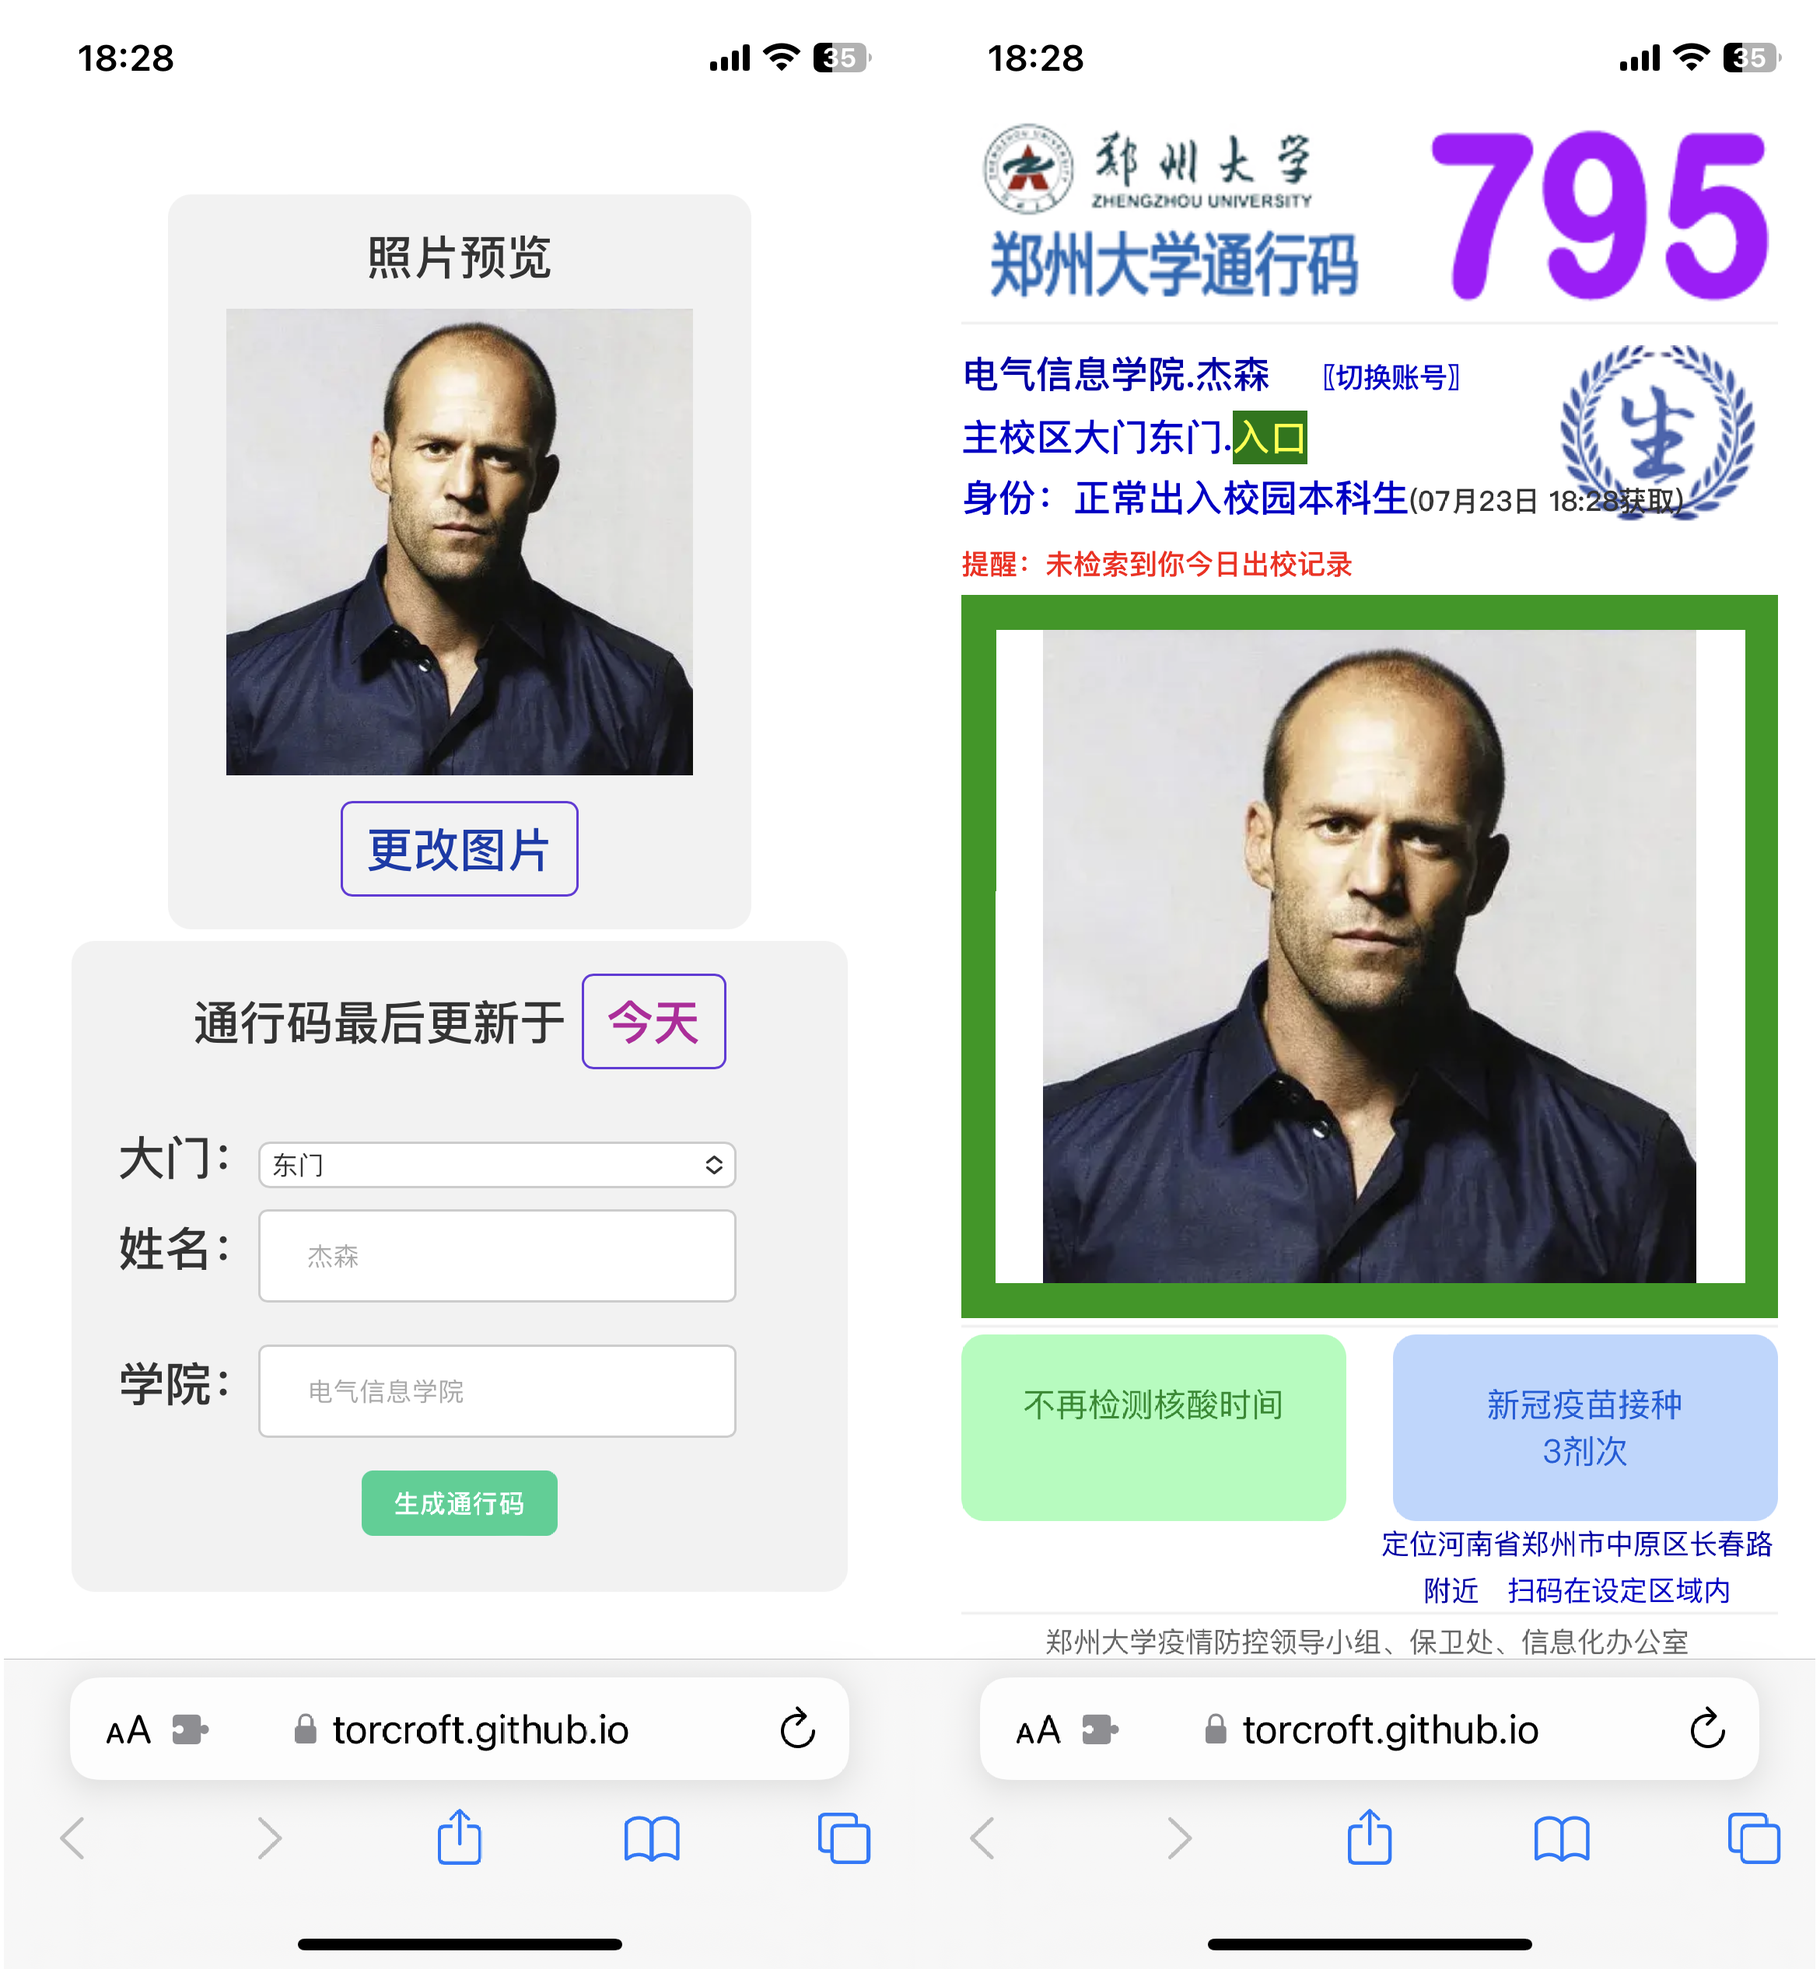
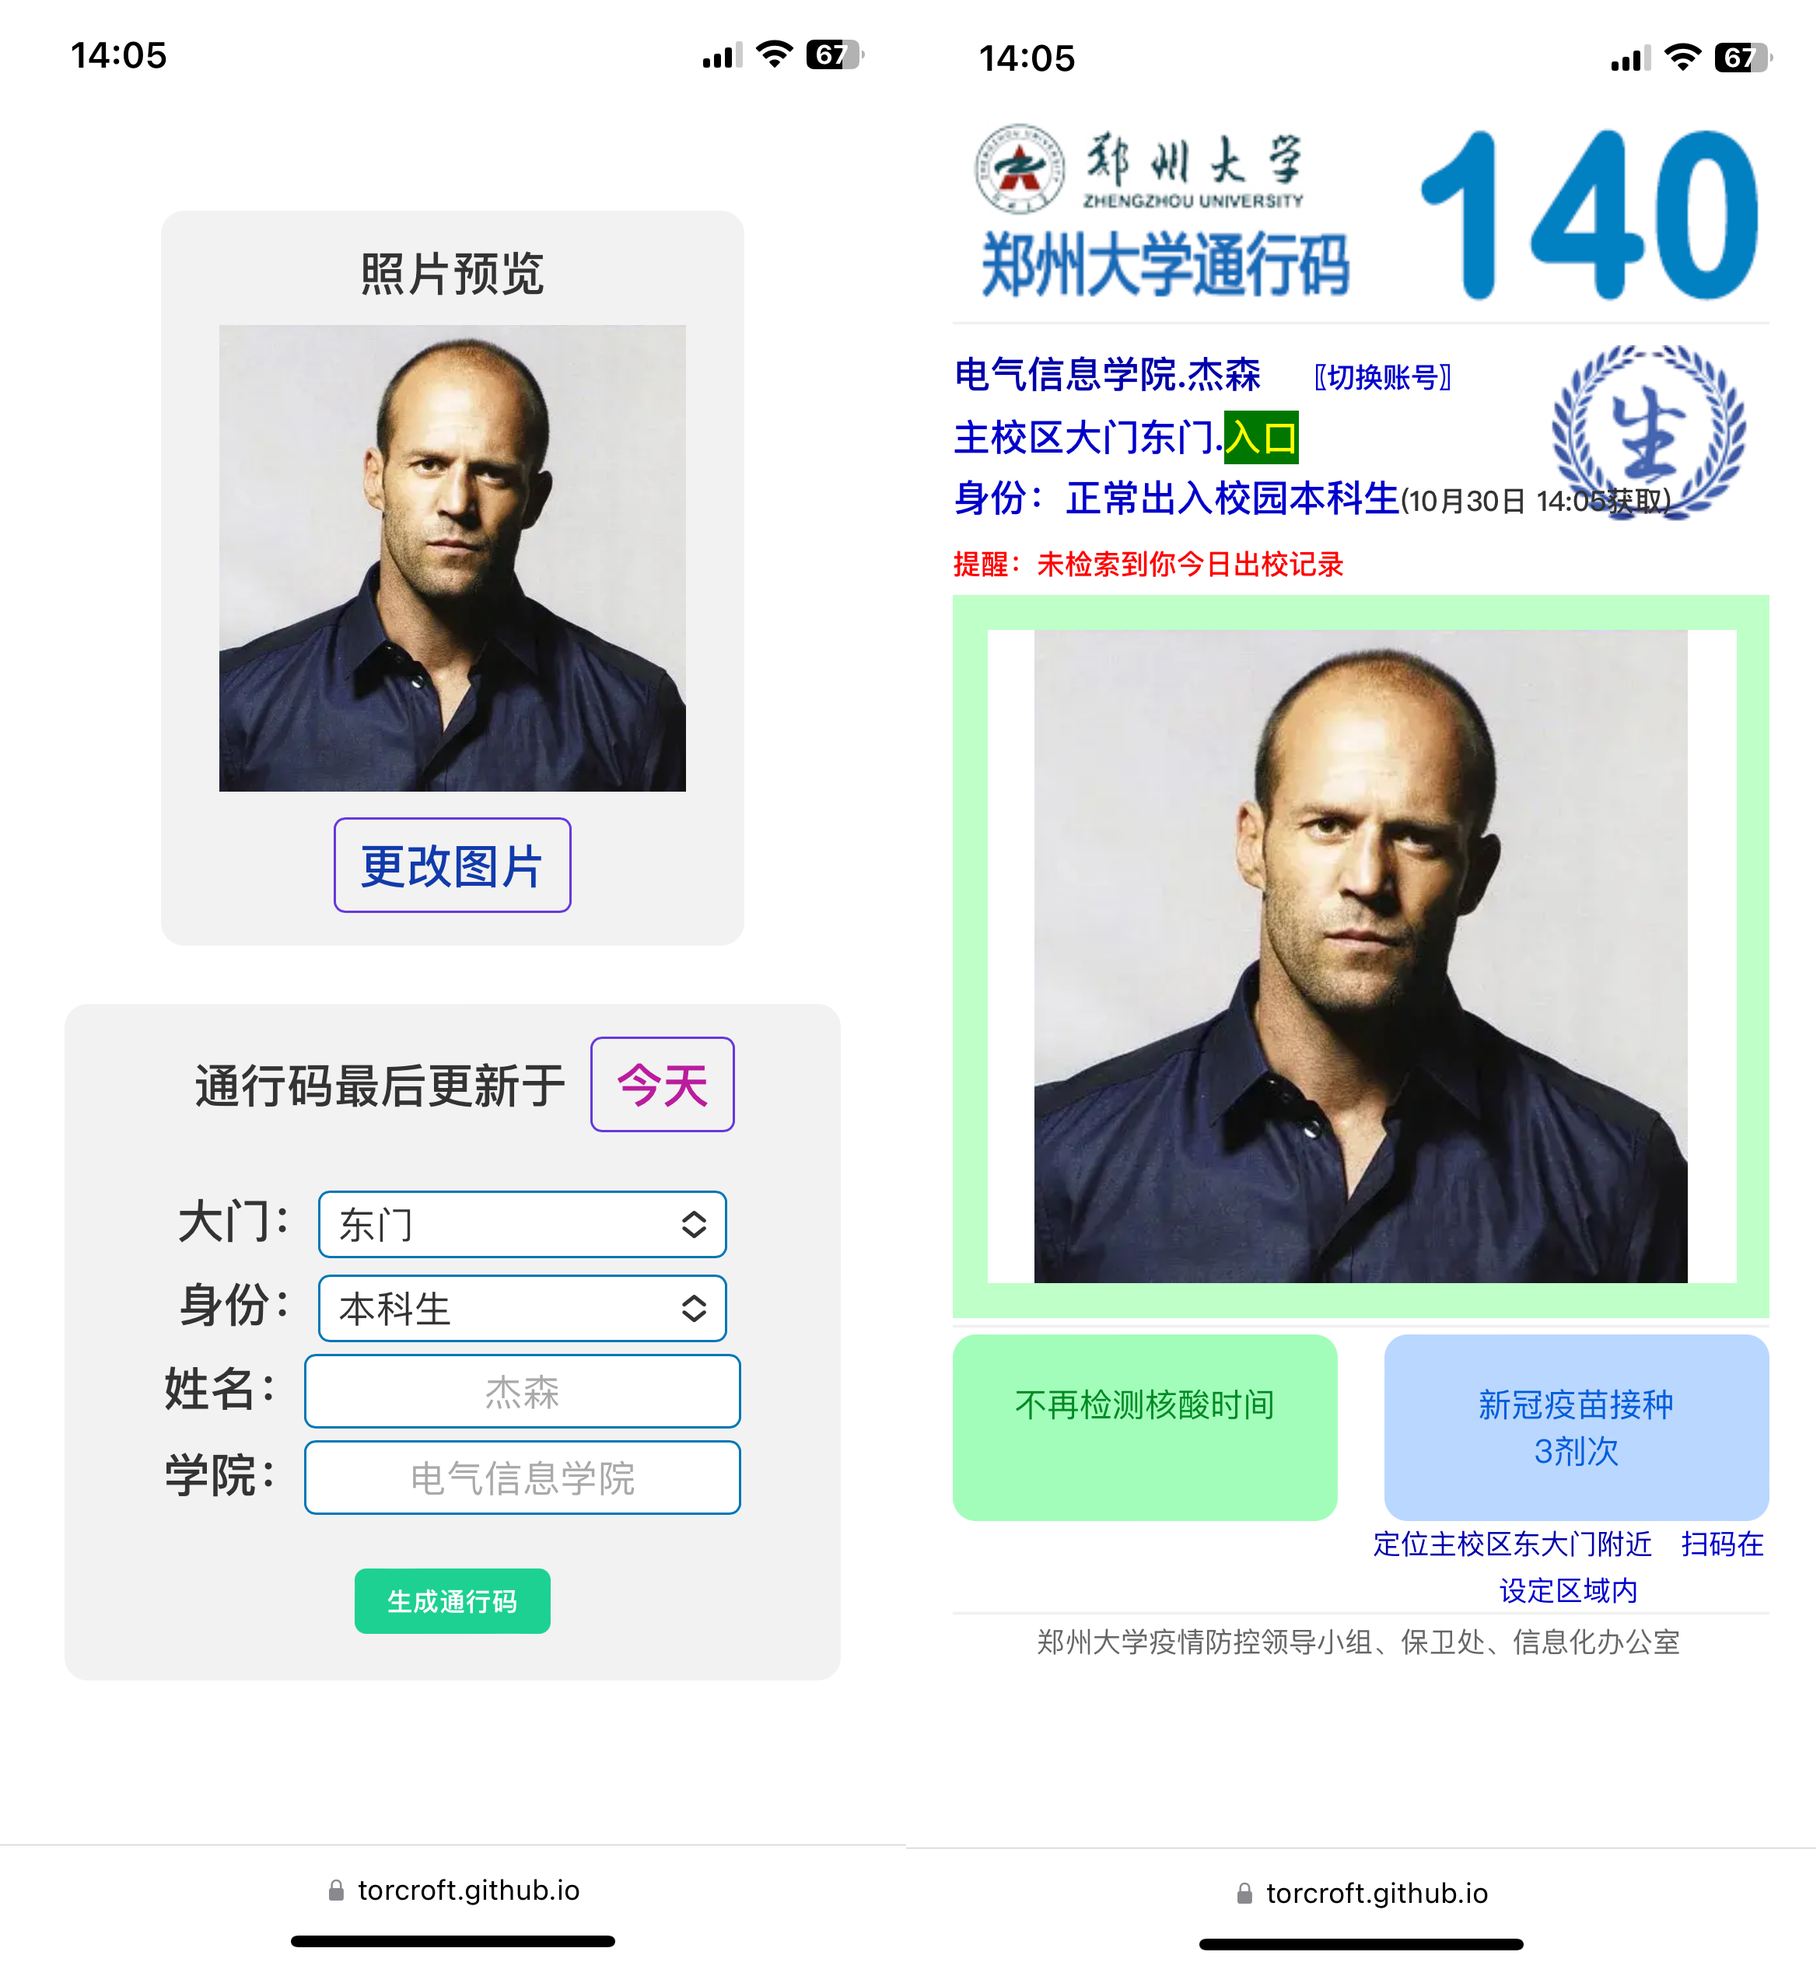
新增本科生、研究生身份选择。

diff --git a/page/index.html b/page/index.html
@@ -14,6 +14,7 @@
         let timerID;
         let flip = true;
         let isCodeExpired = false;
+        let localPasscodeImgPath;
         function flipEvent() {
             flip = !flip;
             if (flip) border_1.style.backgroundColor = border_2.style.backgroundColor = border_3.style.backgroundColor = border_4.style.backgroundColor = "#bfffc8";
@@ -32,7 +33,8 @@
             const today = utcPlus8Time.startOf('day');
             const yesterday = today.clone().subtract(1, 'day');
             const daysDifference = utcPlus8Time.diff(givenDate, 'days');
-            
+            localPasscodeImgPath = "./images/passcode.png?date=" + givenDate.format("YYYYMMDD");
+
             if (givenDate.isSameOrAfter(today)) {
                 return "今天";
             } else {
@@ -86,6 +88,15 @@
                 }
             })
         }
+        function changeIdentity(selectedValue) {
+            const identityElement = document.getElementById("identity");
+            if (selectedValue === '0') {
+                identityElement.innerText = "本科生";
+            }
+            else {
+                identityElement.innerText = "研究生";
+            }
+        }
         function changeLocation(selectedValue) {
             const locationElement = document.getElementById("location");
             const mainGate = document.getElementById("gate");
@@ -127,16 +138,12 @@
             <div style="text-align: center;"><label id="image_select"><input type="file" id="photo" onchange="handleFiles()" accept="image/*" style="display: none;">更改图片</label></div>
         </div>
         <form id="info_form">
-            <div style="text-align: center;"><label>通行码最后更新于&nbsp;</label><label id="last_update_time"></label></div>
-            <br>
-            <label for="name">大门：<select name='gate' size='1' onchange="changeLocation(this.value)">
-                    <option value='east' selected='selected'>东门</option>
-                    <option value='north'>北门</option>
-                    <option value='south'>南门</option>
-                </select></label><br>
-            <label for="name">姓名：<input type="text" id="name" name="name" placeholder="杰森"></label><br>
-            <label for="college">学院：<input type="text" id="college" name="college" placeholder="电气信息学院"></label><br>
-            <div style="text-align: center;"><button type="submit">生成通行码</button></div>
+            <div style="text-align: center;"><label>通行码最后更新于</label><label id="last_update_time"></label></div><br>
+            <div class="info-item"><label for="name">大门：<select name='gate' onchange="changeLocation(this.value)"><option value='east' selected='selected'>东门</option><option value='north'>北门</option><option value='south'>南门</option></select></label><br></div>
+            <div class="info-item"><label for="identity">身份：<select name='identity' onchange="changeIdentity(this.value)"><option value='0' selected='selected'>本科生</option><option value='1'>研究生</option></select></label><br></div>
+            <div class="info-item"><label for="name">姓名：<input type="text" id="name" name="name" placeholder="杰森"></label><br></div>
+            <div class="info-item"><label for="college">学院：<input type="text" id="college" name="college" placeholder="电气信息学院"></label><br></div>
+            <div class="info-submit" style="text-align: center;"><button type="submit">生成通行码</button></div>
         </form>
         <div style="width:0;height:0;display: none;">
             <img id="passcode_img_preload" alt="preImg"><img src="./images/sheng.png" alt="preImg"><img src="./images/split.png" alt="preImg">
@@ -148,17 +155,13 @@
         <div style="width:100%; min-height:90px;">
             <div style="width:100%;height:6px;text-align:left;"></div>
             <div style="width:100%;min-height:26px;line-height:26px;font-size:16px;color:#00c;font-weight:500;font-family:黑体;BACKGROUND-IMAGE:url(./images/sheng.png)">
-                <span id="college_and_name" style="color:#00a">college.name</span>　<a href="javascript:return_to_interface();"><span style="font-size:12px;;color:#00c;">〖切换账号〗</span></a>
-                <br>主校区大门<span id="gate">东门</span>.<span style="background-color:#070;color:#ff0">入口</span><br>身份：正常出入校园本科生<span style="font-size:12px;color:#333;" id="current_time">(00月00日 00:00获取)</span>
-                <br><span style="color:#f00;font-size:12px">提醒：未检索到你今日出校记录</span>
+                <span id="college_and_name" style="color:#00a">college.name</span>　<a href="javascript:return_to_interface();"><span style="font-size:12px;;color:#00c;">〖切换账号〗</span></a><br>主校区大门<span id="gate">东门</span>.<span style="background-color:#070;color:#ff0">入口</span><br>身份：正常出入校园<span id="identity">本科生</span><span style="font-size:12px;color:#333;" id="current_time">(00月00日 00:00获取)</span><br><span style="color:#f00;font-size:12px">提醒：未检索到你今日出校记录</span>
             </div>
         </div>
         <div style="width: 100%; height: 15px; background-color: rgb(0, 153, 0);" id="bian92a"></div>
         <div style="width:100%;height:280px;">
             <div style="width: 15px; height: 100%; background-color: rgb(0, 153, 0); float: left;" id="bian92b1"></div>
-            <div style="width:320px;height:100%;float:left;text-align:center;">
-                <img src="./images/preview.jpg" id="user_portrait" style="height:280px;border:0px;" alt="user's portrait">
-            </div>
+            <div style="width:320px;height:100%;float:left;text-align:center;"><img src="./images/preview.jpg" id="user_portrait" style="height:280px;border:0px;" alt="user's portrait"></div>
             <div style="width: 14px; height: 100%; background-color: rgb(0, 153, 0); float: right;" id="bian92b2"></div>
         </div>
         <div style="width: 100%; height: 15px; background-color: rgb(0, 153, 0);" id="bian92c"></div>
@@ -171,15 +174,15 @@
                 <div style="width:2px;height:100%;float:right"></div>
             </div>
             <div class="bar916">
-                <div style="width:50%;height:100%;float:left;font-size:12px;color:#666;line-height:20px;" id="msg11b">
-                </div>
+                <div style="width:50%;height:100%;float:left;font-size:12px;color:#666;line-height:20px;" id="msg11b"></div>
                 <div style="width:48%;height:100%;float:right;font-size:12px;color:#666;line-height:20px;" id="msg11c">
-                    <span id="location" style="color:#00a">定位河南省郑州市中原区长春路附近</span>　<span style="color:#00c">扫码在设定区域内</span>
+                    <span id="location" style="color:#00a">定位主校区东大门附近</span>　<span style="color:#00c">扫码在设定区域内</span>
                 </div>
             </div>
         </div>
         <div style="width:100%;height:7px;BACKGROUND-IMAGE: url(./images/split.png)"></div>
-        <div style="width:100%;min-height:18px;line-height:18px;font-size:12px;color:#666;text-align:center">郑州大学疫情防控领导小组、保卫处、信息化办公室</div>
+        <div style="width:100%;min-height:18px;line-height:18px;font-size:12px;color:#666;text-align:center">
+            郑州大学疫情防控领导小组、保卫处、信息化办公室</div>
     </div>
     <script>
         const interface = document.getElementById('interface');
@@ -204,14 +207,13 @@
                 const lastUpdateTimeLabel = document.getElementById('last_update_time');
                 const passcode_url = config.passcode_url;
                 lastUpdateTimeLabel.textContent = handleDatetime(config.last_update_time);
-                checkImgExists(passcode_url).then(()=>{
-                    //success callback
-                    document.getElementById('passcodeImg').style.backgroundImage = `url(${passcode_img_url})`;
-                }).catch(()=>{
+                checkImgExists(passcode_url).then(() => {
+                    document.getElementById('passcode_img_preload').src = passcode_url;
+                    document.getElementById('passcodeImg').style.backgroundImage = `url(${passcode_url})`;
+                }).catch(() => {
                     //fail callback
-                    const passcode_path = "./images/passcode.png";
-                    document.getElementById('passcode_img_preload').src = passcode_path;
-                    document.getElementById('passcodeImg').style.backgroundImage = `url(${passcode_path})`;
+                    document.getElementById('passcode_img_preload').src = localPasscodeImgPath;
+                    document.getElementById('passcodeImg').style.backgroundImage = `url(${localPasscodeImgPath})`;
                 })
             });
     </script>

diff --git a/page/css/interface_style.css b/page/css/interface_style.css
@@ -1,1 +1,1 @@
-div#interface{top:20%;display:flex;justify-content:center;align-items:center;min-HEIGHT:540px;font-size:20px;color:#333}div#interface div#preview{width:auto;height:auto;text-align:center;position:absolute;top:10%;border-radius:10px;background-color:#f2f2f2;margin-top:-30px;margin-bottom:20px;padding-left:25px;padding-right:25px;padding-top:20px;padding-bottom:20px}div#interface form{position:absolute;width:75%;max-width:350px;top:calc(10% + 290px);border-radius:10px;background-color:#f2f2f2;padding:20px}div#interface label{font-family:黑体;font-weight:500}div#interface input[type=text]{width:70%;padding:12px 20px;margin:8px 0;margin-bottom:10px;display:inline-block;border:1px solid #ccc;border-radius:4px;box-sizing:border-box}div#interface input[type="text"]:focus{outline:none;box-shadow:0 0 5px rgba(81,203,238,1)}div#interface button[type=submit]{background-color:#1dd192;border-radius:5px;border:none;color:white;padding:7px 14px;text-decoration:none;margin:4px 2px;cursor:pointer}div#interface button[type=submit]:hover{background-color:#1c9d70;}div#interface select{width:70%;padding:5px;text-align:center;border-radius:5px;border:1px solid #ccc;color:#333;background-color:#fff;box-shadow:none}div#interface select:focus{outline:none;border-color:#1e90ff;box-shadow:0 0 0 2px rgba(30,144,255,0.2)}div#interface option{color:#333;background-color:#fff}div#interface #last_update_time{font-weight:bold;color:#bb1c9e;border:1px solid #6739db;padding:5px 10px;border-radius:5px}div#interface label#image_select{margin-top:10px;text-align:center;color:#113bac;border:1px solid #6739db;padding:5px 10px;border-radius:5px;cursor:pointer}div#interface label#image_select:hover{color:#113bac;background-color:#7f74f6}
+div#interface{top:20%;display:flex;justify-content:center;align-items:center;min-HEIGHT:540px;font-size:20px;color:#333}div#interface div#preview{width:auto;height:auto;text-align:center;position:absolute;top:10%;border-radius:10px;background-color:#f2f2f2;margin-top:-30px;margin-bottom:20px;padding-left:25px;padding-right:25px;padding-top:20px;padding-bottom:20px}div#interface form{margin-top:20px;position:absolute;width:75%;max-width:350px;top:calc(10% + 290px);border-radius:10px;background-color:#f2f2f2;padding:20px}div.info-item{margin-bottom:5px;text-align:center;}div#interface label{font-family:黑体;font-weight:500;padding:12px 10px;}div#interface input[type=text]{max-width:60%;text-align:center;padding:5px;border:1px solid #0077b6;border-radius:5px;background-color:#fff;color:#333;font-size:16px;}div#interface input[type="text"]:focus{outline:none;box-shadow:0 0 5px rgba(81,203,238,1)}div.info-submit{padding-top:14px;}div#interface button[type=submit]{background-color:#1dd192;border-radius:5px;border:none;color:white;padding:7px 14px;text-decoration:none;cursor:pointer}div#interface button[type=submit]:hover{background-color:#1c9d70;}div#interface select{text-align:center;width:60%;padding:5px;border:1px solid #0077b6;border-radius:5px;background-color:#fff;color:#333;font-size:16px;}div#interface select:focus{outline:none;border-color:#1e90ff;box-shadow:0 0 0 2px rgba(30,144,255,0.2)}div#interface option{color:#333;background-color:#fff}div#interface #last_update_time{font-weight:bold;color:#bb1c9e;border:1px solid #6739db;padding:5px 10px;border-radius:5px}div#interface label#image_select{margin-top:10px;text-align:center;color:#113bac;border:1px solid #6739db;padding:5px 10px;border-radius:5px;cursor:pointer}div#interface label#image_select:hover{color:#113bac;background-color:#7f74f6}

diff --git a/src/utils.py b/src/utils.py
@@ -1,12 +1,12 @@
 import requests
 import os
 import json
-from datetime import datetime, timezone
+from datetime import datetime, UTC
 from .logger import logger
 
 
 def utc_time_string():
-    utc_time = datetime.utcnow().replace(tzinfo=timezone.utc)
+    utc_time = datetime.now(UTC)
     return datetime.strftime(utc_time, "%Y-%m-%d %H:%M:%S %Z")
 
 
